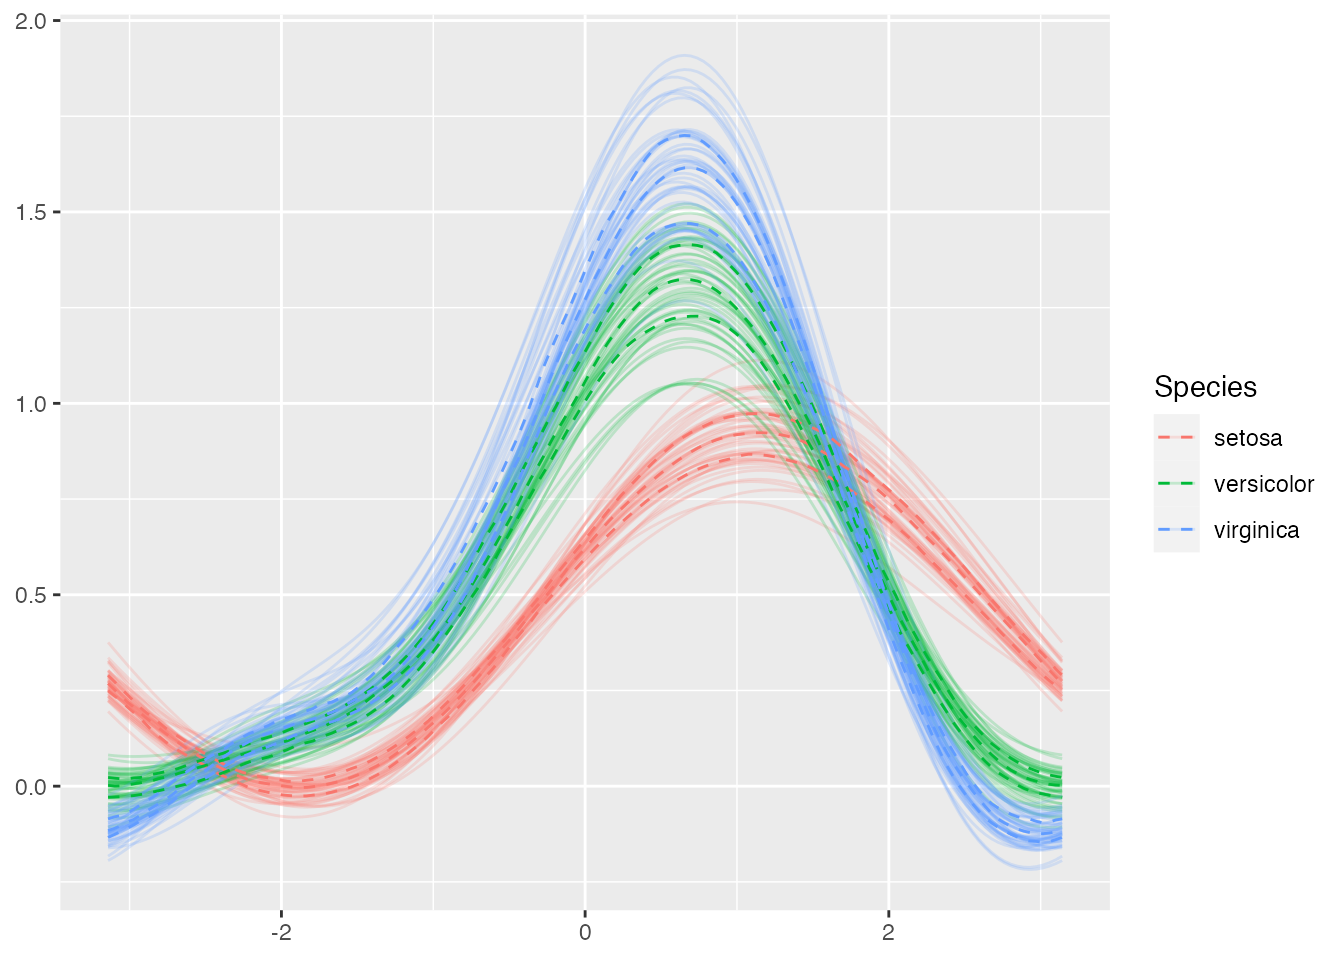
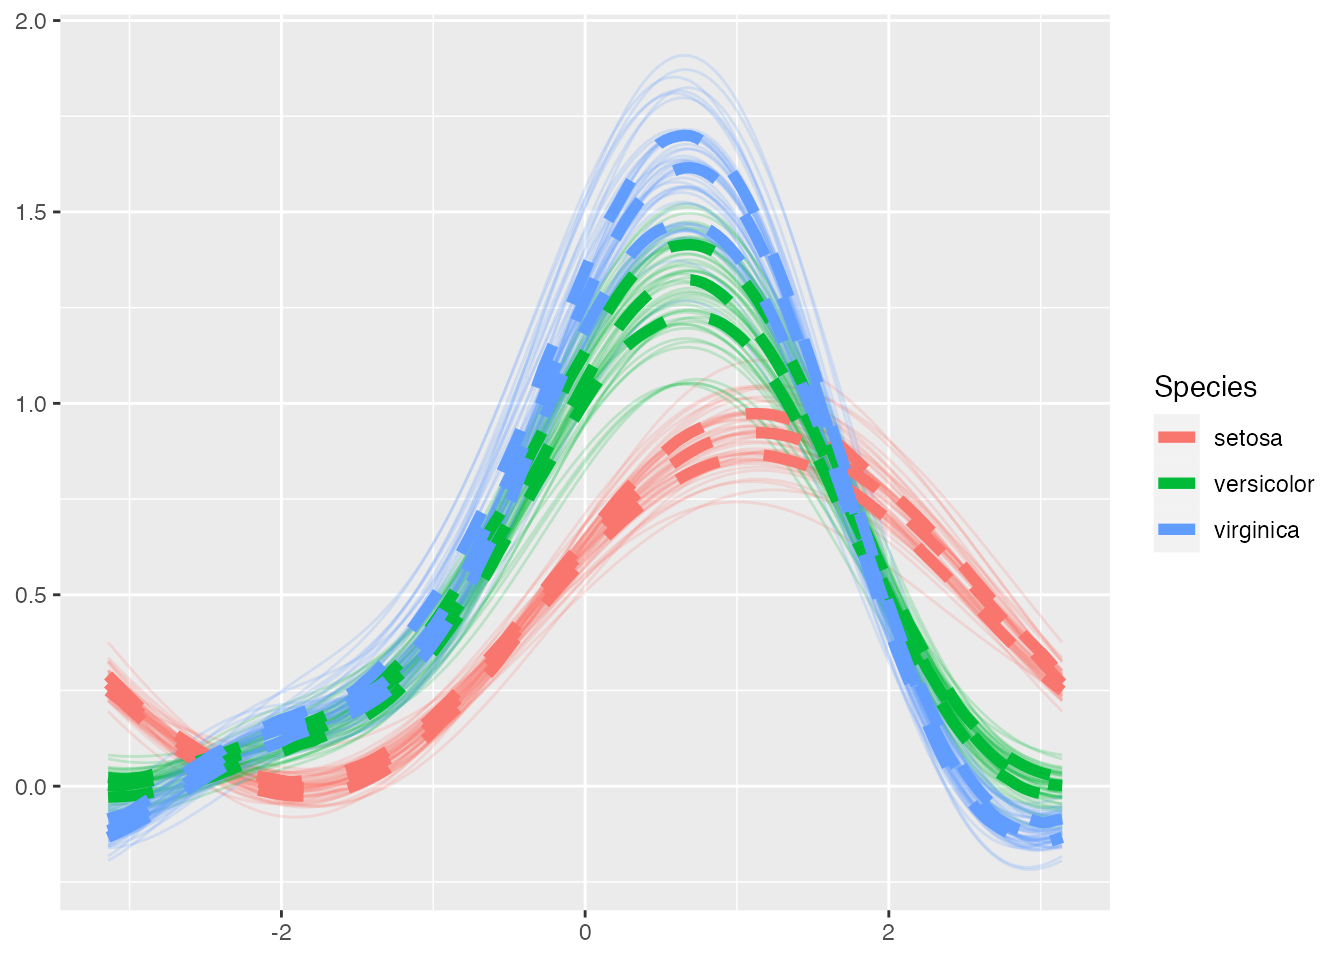
fix a bug

diff --git a/docs/articles/highDim.html b/docs/articles/highDim.html
@@ -214,7 +214,7 @@ illustrates how to construct an “Andrew’s plot”.</p>
 <code class="sourceCode R"><span><span class="va">p</span> <span class="op">+</span> </span>
 <span> <span class="fu"><a href="../reference/geom_quantiles.html">geom_quantiles</a></span><span class="op">(</span>stat <span class="op">=</span> <span class="st">"dotProduct"</span>,</span>
 <span>                quantiles <span class="op">=</span> <span class="fu"><a href="https://rdrr.io/r/base/c.html" class="external-link">c</a></span><span class="op">(</span><span class="fl">0.25</span>, <span class="fl">0.5</span>, <span class="fl">0.75</span><span class="op">)</span>,</span>
-<span>                size <span class="op">=</span> <span class="fl">2</span>,</span>
+<span>                linewidth <span class="op">=</span> <span class="fl">2</span>,</span>
 <span>                linetype <span class="op">=</span> <span class="fl">2</span><span class="op">)</span> </span></code></pre></div>
 <p><img src="highDim_files/figure-html/andrews%20with%20quantile-1.png" width="60%" style="display: block; margin: auto;"></p>
 <p>A couple of things should be noticed:</p>
